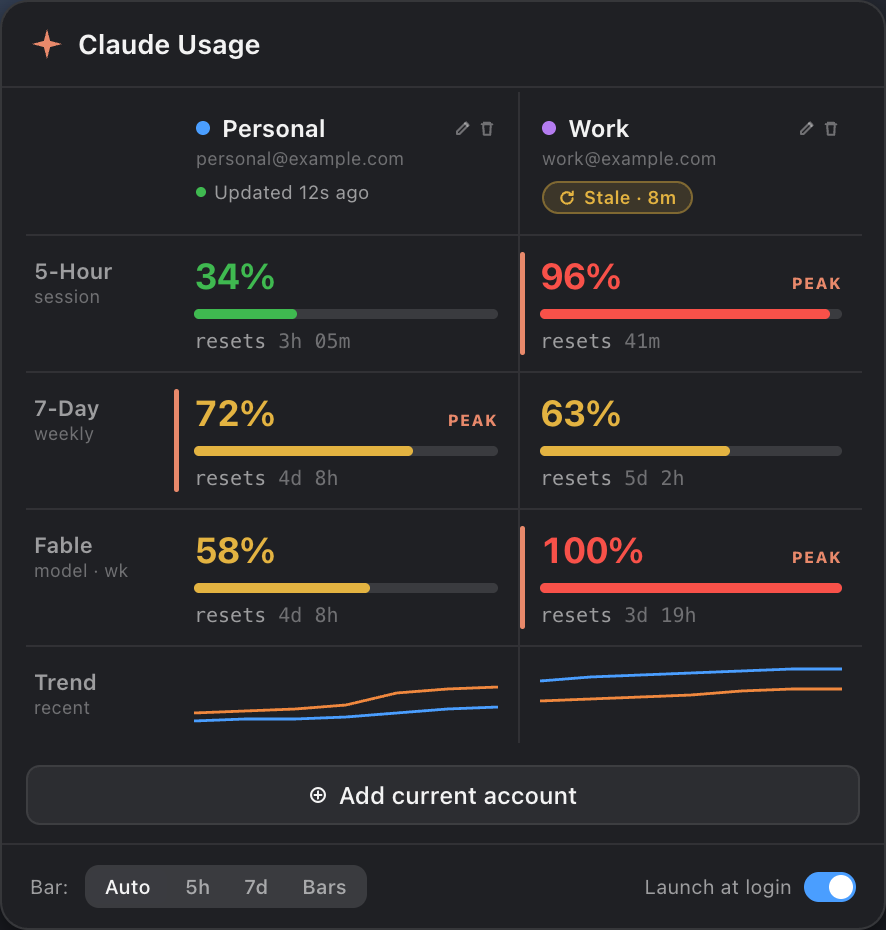
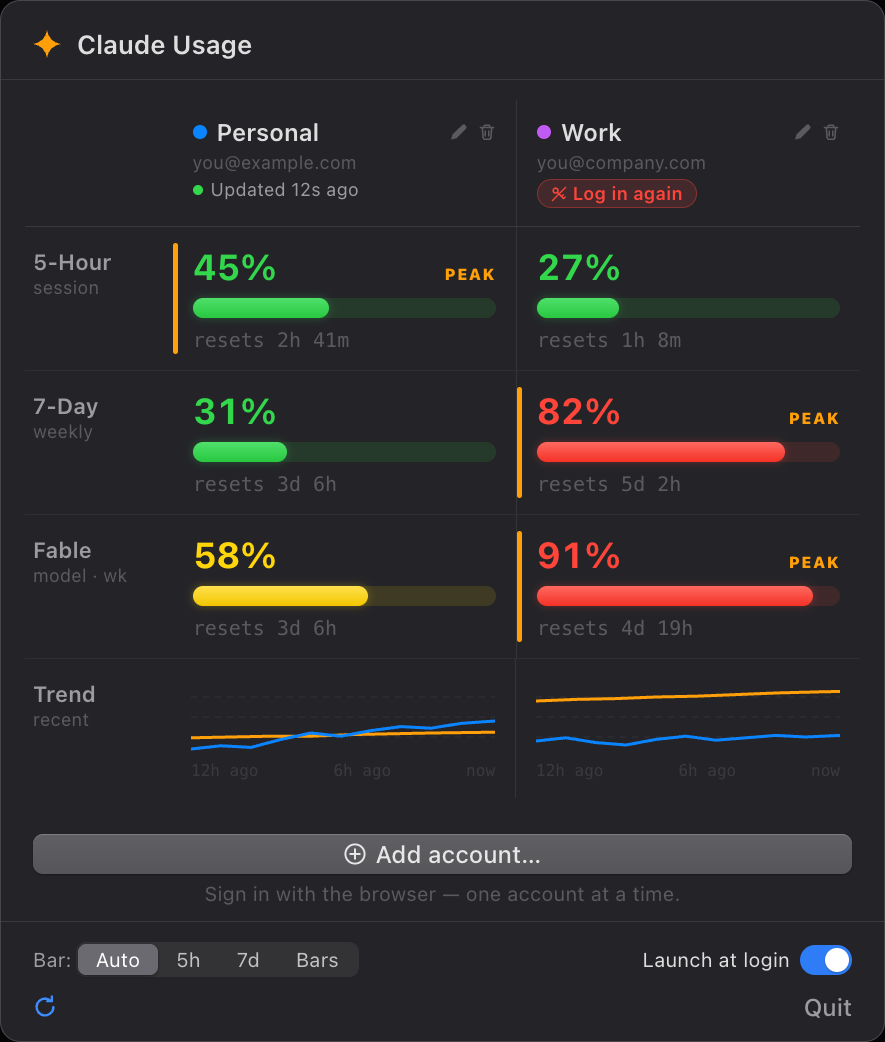
docs: refresh README screenshots for the browser-login UI
The previous images predated the login UI entirely and advertised an app
that no longer exists. These are mockups rendered from the actual view
source (strings, widths, colours and layout constants derived from
UsageMatrixView/LoginPill/MultiAccountMenuBar), showing the 'Log in again'
pill and the browser sign-in hint. Anonymised sample accounts.

diff --git a/README.md b/README.md
@@ -82,7 +82,7 @@ When the API reports model-scoped weekly limits (e.g. **Fable**), each account's
 
 ![Menu bar — Bars mode](screenshots/menubar-bars.png)
 
-**Popover** — accounts side by side, one row per usage window so the same stat is easy to compare; the higher account in each row is flagged `PEAK`, and a stale account offers a one-tap refresh:
+**Popover** — accounts side by side, one row per usage window so the same stat is easy to compare; the higher account in each row is flagged `PEAK`, and an account whose login has expired gets a one-tap **Log in again** pill:
 
 <img src="screenshots/popover-matrix.png" width="443" alt="Multi-account comparison popover">
 
